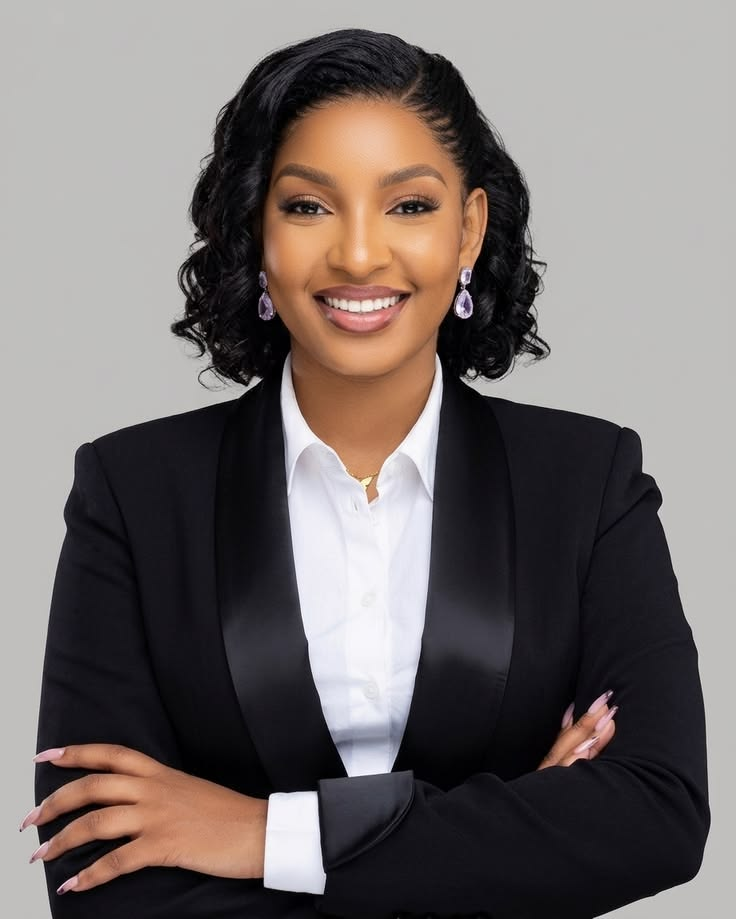
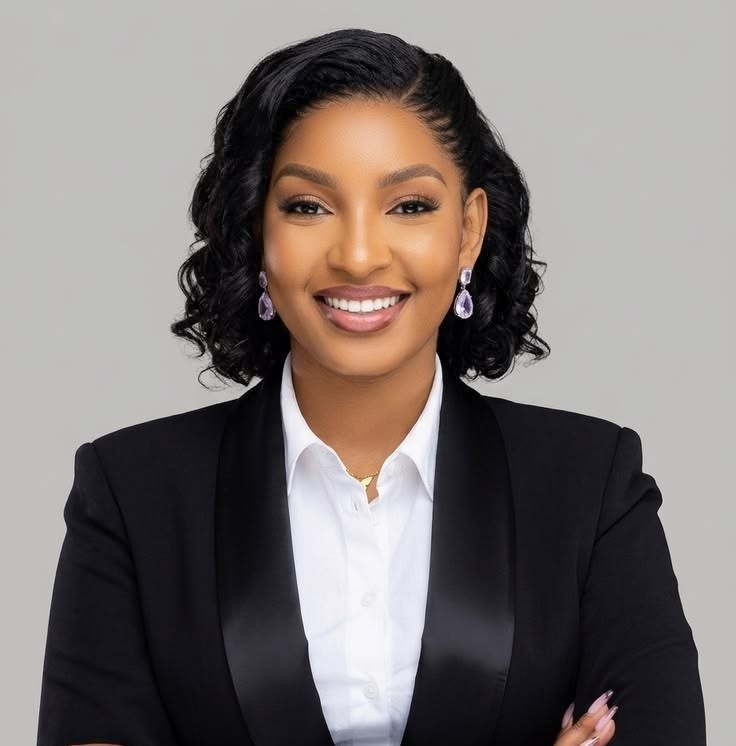
feat: add About Us page with styled team member profiles and supporting assets

diff --git a/server/frontend/static/About.html b/server/frontend/static/About.html
@@ -75,19 +75,19 @@
 
       <div class="container-identity">
         <div class="container-indetity-card">
-          <h2>Mission</h2>
+          <h2 style="font-family: 'Fjalla One', sans-serif;">Mission</h2>
           <p>We are committed to providing a seamless and enjoyable car buying experience to our customers, 
             while offering a wide selection of new and used cars at reasonable prices.</p>
         </div>
 
         <div class="container-indetity-card">
-          <h2>Vision</h2>
+          <h2 style="font-family: 'Fjalla One', sans-serif;">Vision</h2>
           <p>We are committed to providing a seamless and enjoyable car buying experience to our customers, 
             while offering a wide selection of new and used cars at reasonable prices.</p>
         </div>
 
         <div class="container-indetity-card">
-          <h2>Values</h2>
+          <h2 style="font-family: 'Fjalla One', sans-serif;">Values</h2>
           <p>We are committed to honesty and transparency in all our dealings. 
             We build long-term relationships with our customers. 
             We strive for continuous improvement.
@@ -96,34 +96,39 @@
         
       </div>
 
-      <div class="about-us-content">
-        <div class="about-us-team">
-          <h2>Our Team</h2>
-          <div class="team-members">
-            <div class="team-member">
-              <img src="/static/person.png" alt="Person 1">
-              <h3>Person1</h3>
-              <p>Person1 Title</p>
-              <p>Some text that explains the person1 in about 2 short sentences</p>
-              <p>person1@example.com</p>
-            </div>
-            <div class="team-member">
-              <img src="/static/person.png" alt="Person 2">
-              <h3>Person2</h3>
-              <p>Person2 Title</p>
-              <p>Some text that explains the person2 in about 2 short sentences</p>
-              <p>person2@example.com</p>
-            </div>
-            <div class="team-member">
-              <img src="/static/person.png" alt="Person 3">
-              <h3>Person3</h3>
-              <p>Person3 Title</p>
-              <p>Some text that explains the person3 in about 2 short sentences</p>
-              <p>person3@example.com</p>
-            </div>
-          </div>
+      <h2 style="text-align: center; margin-bottom: 1em; padding: 0; font-family: 'Fjalla One', sans-serif; ">Our Team</h2>
+
+    <div class="team-members">
+      <div class="team-member">
+        <div class="team-member-image">
+          <img src="/static/Bernard.jpg" alt="Bernard Mtonga">
         </div>
+        <h5 class="team-member-name">Bernard Mtonga</h5>
+        <h4 class="team-member-role">Founder & CEO</h4>
+        <p class="team-member-text">Bernard has over 15 years of experience in the automotive industry. He founded Best
+          Cars with the mission of bringing transparency, trust, and premium quality to every car buying journey.</p>
       </div>
+
+      <div class="team-member">
+        <div class="team-member-image">
+          <img src="/static/Racheal.jpg" alt="Racheal Mandona">
+        </div>
+        <h5 class="team-member-name">Racheal Mandona</h5>
+        <h4 class="team-member-role">Sales Director</h4>
+        <p class="team-member-text">Racheal is passionate about helping customers find their perfect match. She leads
+          our sales team with a focus on client-centered, informative, and pressure-free guidance.</p>
+      </div>
+
+      <div class="team-member">
+        <div class="team-member-image">
+          <img src="/static/Temwani.jpg" alt="Temwani Kafunda">
+        </div>
+        <h5 class="team-member-name">Temwani Kafunda</h5>
+        <h4 class="team-member-role">Customer Success</h4>
+        <p class="team-member-text">Temwani ensures that our customers receive exceptional support both during and after
+          their purchase, maintaining our industry-leading customer satisfaction ratings.</p>
+      </div>
+    </div>
     </section>
 </body>
 </html>

diff --git a/server/frontend/static/style.css b/server/frontend/static/style.css
@@ -202,17 +202,16 @@ section.homepage-hero{
   letter-spacing: 1px;
 }
 .container-identity{
-  color: #f6f6f6;
   display: flex;
   flex-direction: row;
   justify-content: space-around;
   padding: 2%;
   flex: 1;
+  background-color: #f9f9f9;
   flex-wrap: wrap;
   gap: 1em;
 
 .container-indetity-card{
-  background-color: #012c01;
   display: flex;
   flex-direction: column;
   justify-content: center;
@@ -258,4 +257,72 @@ section.homepage-hero{
 }
 .container-indetity-card p, .text-center{font-size: 1.25rem;}
 
+}
+
+.team-members {
+  display: grid;
+  grid-template-columns: repeat(auto-fit, minmax(300px, 1fr));
+  gap: 30px;
+  justify-content: center;
+  width: 90%;
+  margin: 0 auto;
+  margin-bottom: 4em;
+}
+
+.team-member {
+  background: white;
+  border: 1px solid #e2e8f0;
+  border-radius: 15px;
+  overflow: hidden;
+  box-shadow: 0 4px 12px rgba(0, 0, 0, 0.05);
+  transition: transform 0.3s ease, box-shadow 0.3s ease;
+  display: flex;
+  flex-direction: column;
+  align-items: center;
+  text-align: center;
+  padding: 35px 25px;
+}
+
+.team-member:hover {
+  transform: translateY(-8px);
+  box-shadow: 0 12px 24px rgba(0, 0, 0, 0.1);
+}
+
+.team-member-image {
+  width: 140px;
+  height: 140px;
+  border-radius: 50%;
+  overflow: hidden;
+  margin-bottom: 20px;
+  border: 4px solid rgb(232, 245, 237);
+  box-shadow: 0 4px 10px rgba(0, 0, 0, 0.08);
+}
+
+.team-member-image img {
+  width: 100%;
+  height: 100%;
+  object-fit: cover;
+}
+
+.team-member-name {
+  font-family: 'Fjalla One', sans-serif;
+  font-size: 1.35rem;
+  color: rgb(44, 15, 1);
+  margin-bottom: 6px;
+}
+
+.team-member-role {
+  font-family: 'Space Grotesk', sans-serif;
+  font-weight: 600;
+  font-size: 0.95rem;
+  color: rgb(97, 64, 128);
+  margin-bottom: 15px;
+  text-transform: uppercase;
+  letter-spacing: 1px;
+}
+
+.team-member-text {
+  font-size: 0.95rem;
+  color: #555555;
+  line-height: 1.6;
 }
